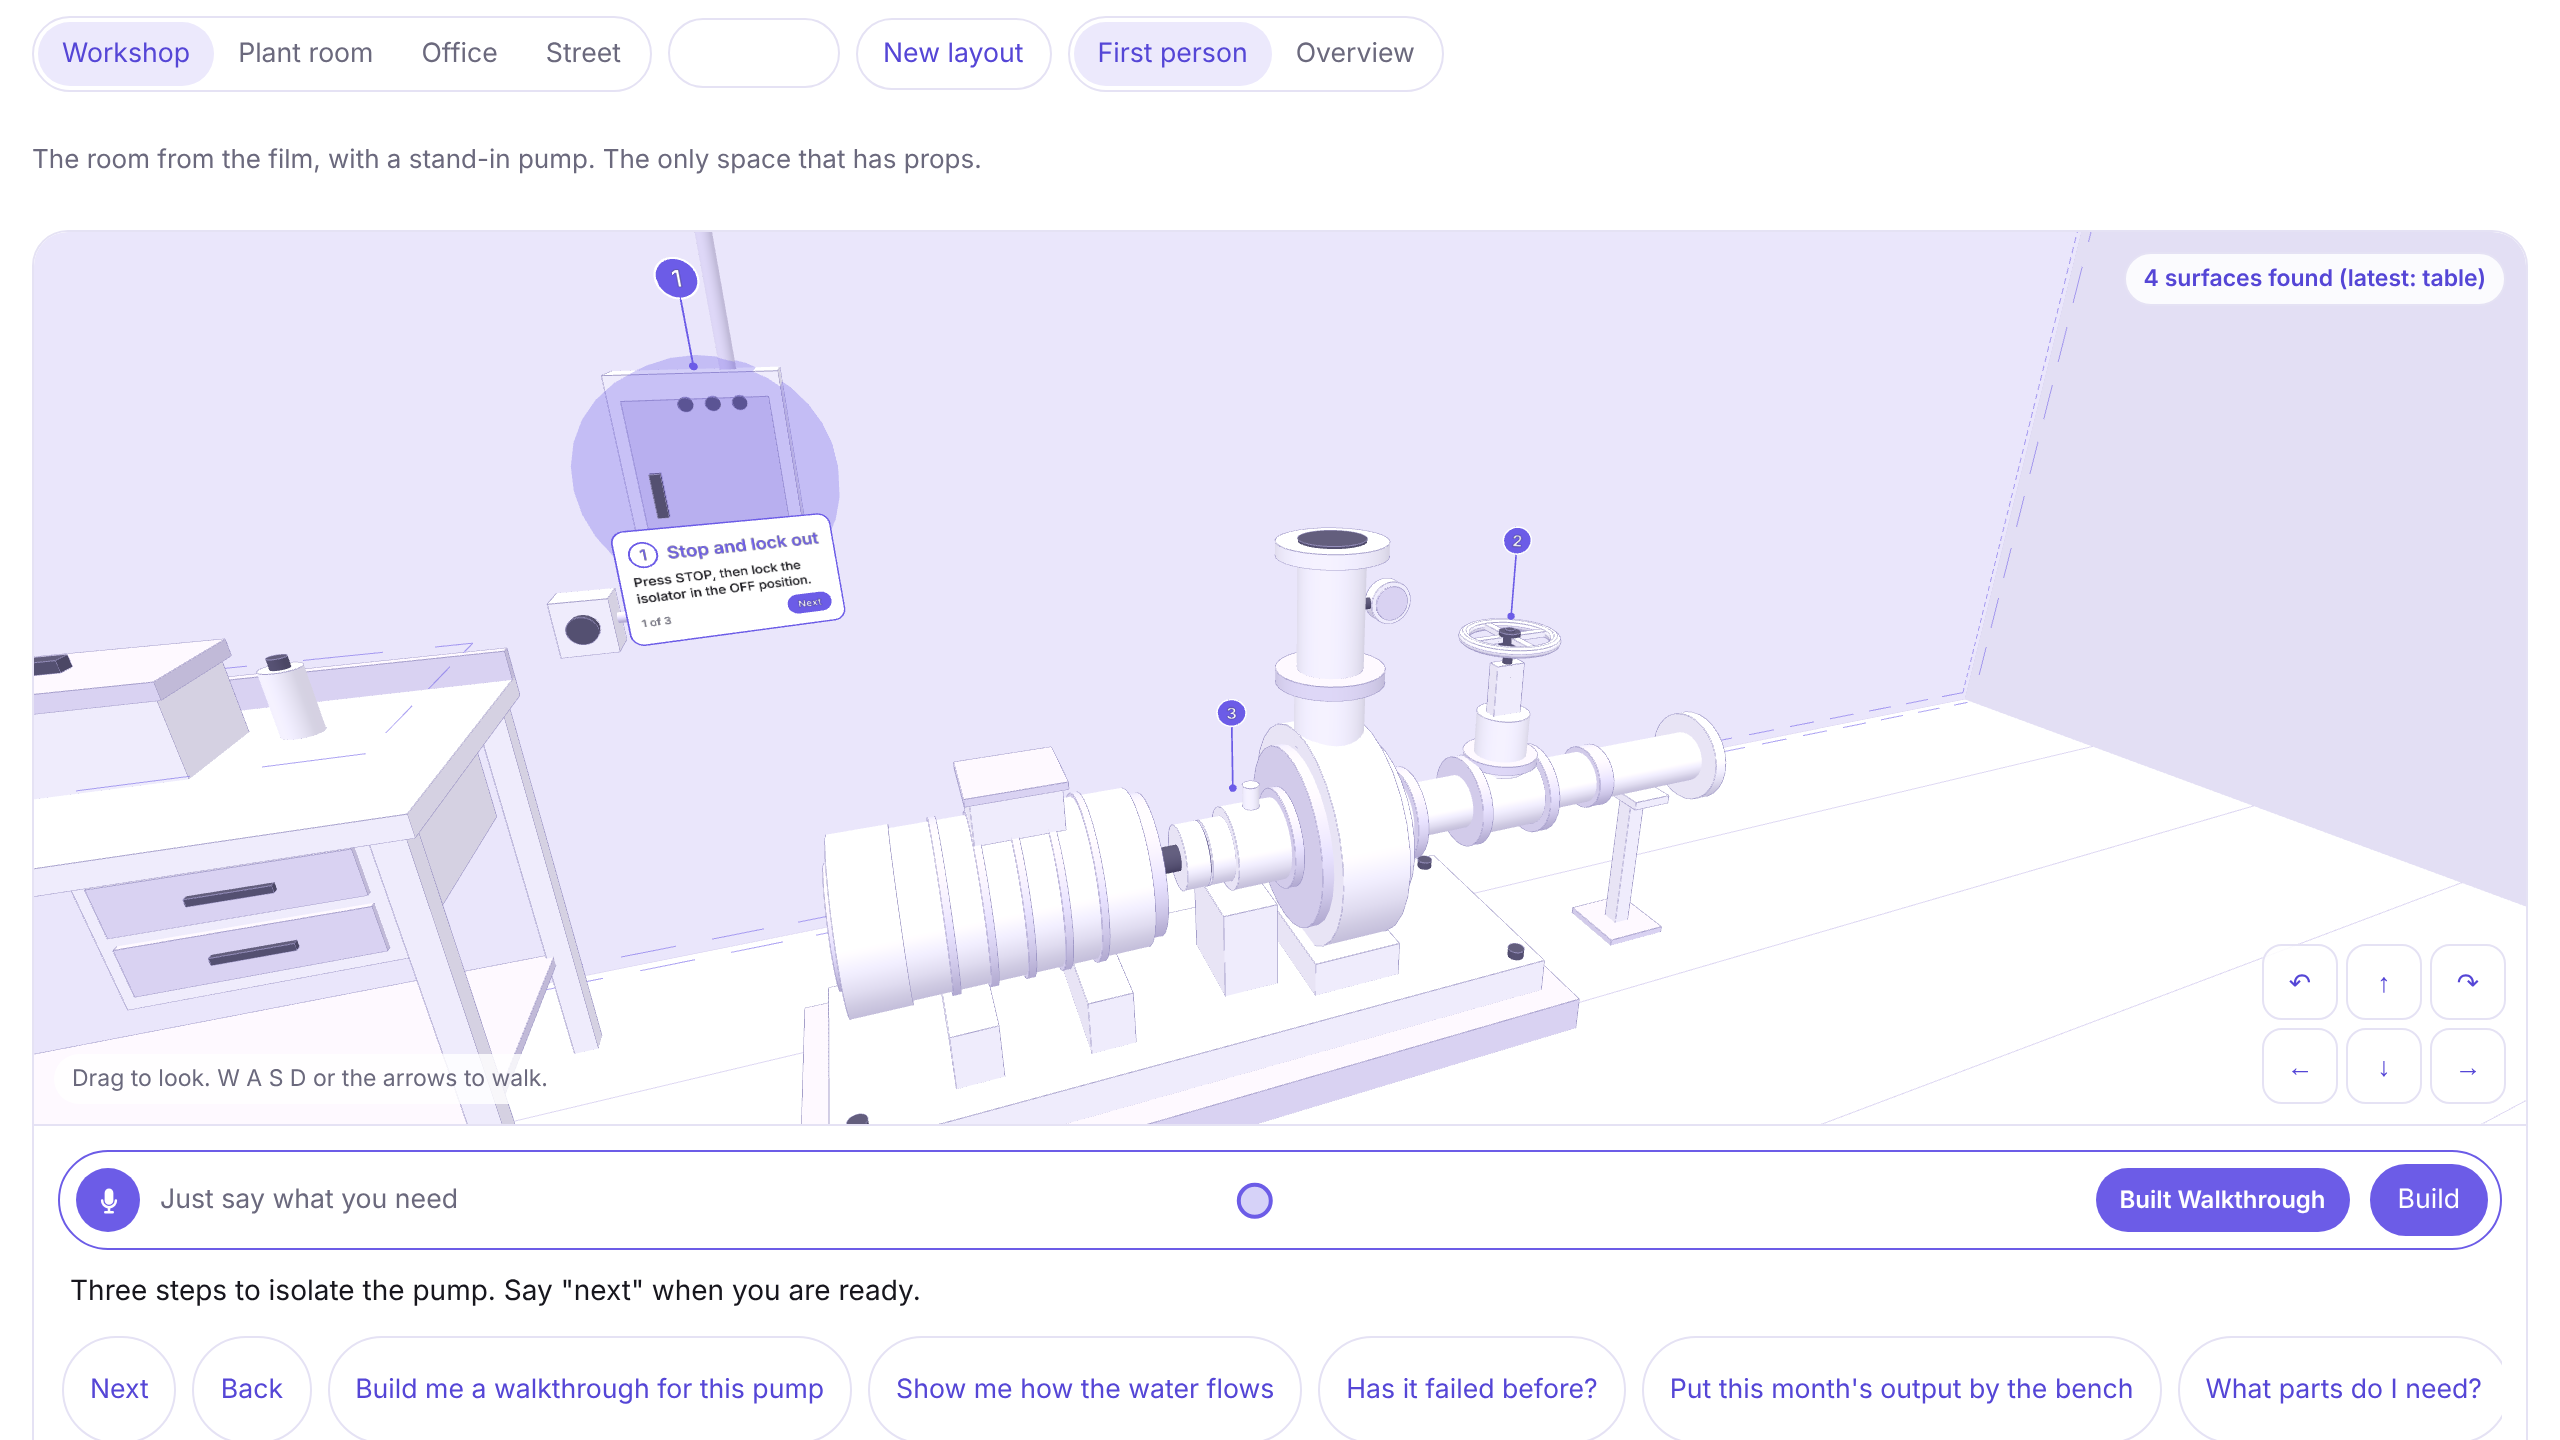
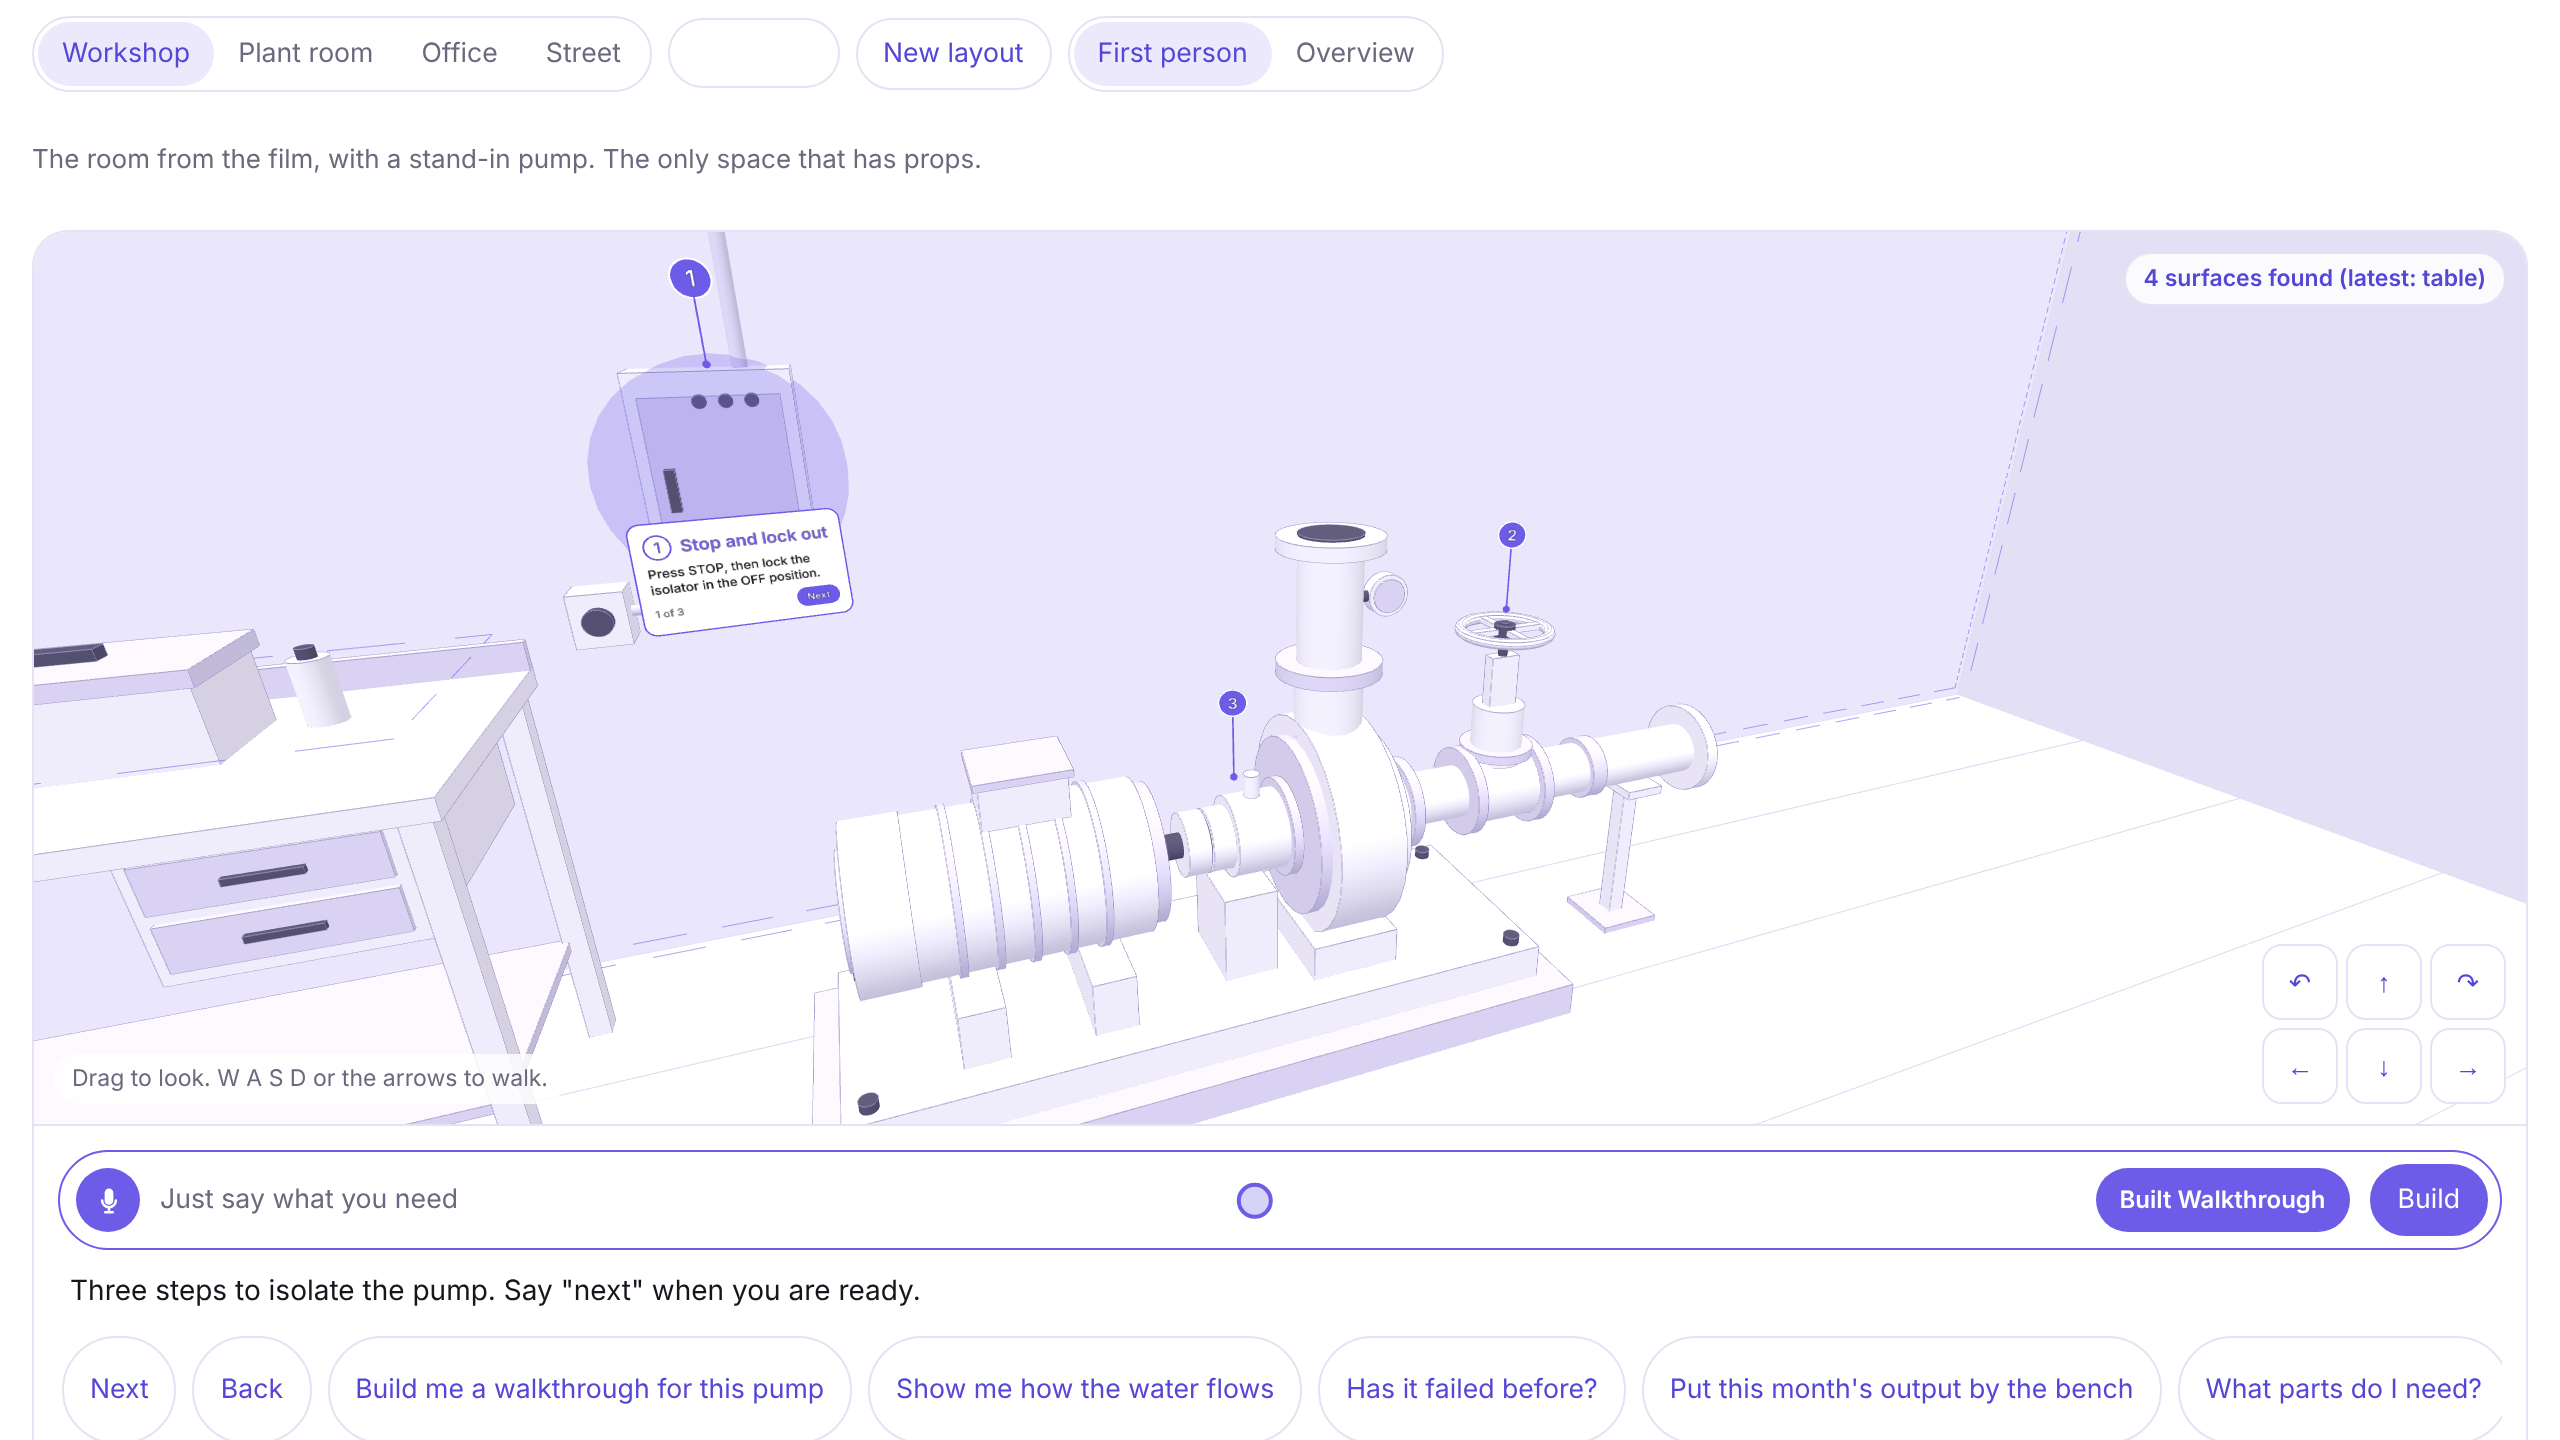
Lab stills, kit placement fix, guide polish
Kit pieces (pill, button, arcArrow) now pass only placement to their group, so
style options no longer leak into group properties. Adds the lab stills and the
lab's verification detail to the guide.

Claude-Session: https://claude.ai/code/session_01YJK3wXYWccKnyfQ7fLP1g4

diff --git a/docs/lab/data/spatail.js b/docs/lab/data/spatail.js
@@ -585,13 +585,23 @@
   // Nothing here is special: every piece is built from the scene primitives above, and programs are free to
   // build their own instead.
 
+  // Kit pieces are groups. Only placement goes to the group itself; style, size and colour belong to the
+  // pieces inside it.
+  function placementOf(options) {
+    var out = {};
+    ['position', 'rotation', 'scale', 'parent', 'billboard', 'visible'].forEach(function (k) {
+      if (options[k] !== undefined) out[k] = options[k];
+    });
+    return out;
+  }
+
   var kit = {
     // A rounded pill of text. style 'solid' (coloured, white text) or 'outline' (white, coloured text).
     pill: function (text, options) {
       options = options || {};
       var c = color(options.color), solid = options.style !== 'outline';
       var size = options.size || theme.text.label, padX = size * 0.75, height = size * 1.8;
-      var g = scene.group(options);
+      var g = scene.group(placementOf(options));
       var label = scene.text({ parent: g, text: text, size: size, weight: 'semibold', align: 'center', color: solid ? '#FFFFFF' : c, position: [0, 0, -theme.layer] });
       g.width = label.width + padX * 2;
       g.height = height;
@@ -632,7 +642,7 @@
       options = options || {};
       var c = color(options.color), primary = options.primary !== false;
       var size = options.size || theme.text.small, height = size * 2;
-      var g = scene.group(options);
+      var g = scene.group(placementOf(options));
       var label = scene.text({ parent: g, text: text, size: size, weight: 'semibold', align: 'center', color: primary ? '#FFFFFF' : c, position: [0, 0, -theme.layer] });
       g.width = label.width + size * 2;
       g.height = height;
@@ -680,7 +690,7 @@
     arcArrow: function (options) {
       options = options || {};
       var c = color(options.color), r = options.radius || 0.14, arc = options.arc || 250, clockwise = options.clockwise !== false;
-      var g = scene.group(options);
+      var g = scene.group(placementOf(options));
       var spinner = scene.group({ parent: g });
       scene.torus({ parent: spinner, radius: r, tube: 0.011, arc: arc, color: c });
       // The arc runs anticlockwise (seen from above) from +X. The head leads the motion.

diff --git a/docs/content.js b/docs/content.js
@@ -83,7 +83,7 @@ window.SPATAIL_STATUS = [
   ['Session link', 'Tested', 'Host and client exchange prompts, replies, presence and settings over real TCP sockets on loopback.'],
   ['Planner service', 'Tested', '14 tests with a stand-in for the Claude client: request shape (image, cached instructions, schema), refusal and error handling, the HTTP surface. Every example program is run against the real runtime library.'],
   ['Planner service calling Claude for real', 'Not run', 'No Claude credentials were available here. The quality of generated programs in real places is the main thing still to learn, and the reason the episode replay exists.'],
-  ['Browser lab', 'Tested', 'Headless browser: generated spaces, surface discovery while looking around, recorded and sensing-only programs, both themes, phone width.'],
+  ['Browser lab', 'Tested', 'Headless browser, 66 checks: surfaces start empty and grow as you look around, the same seed gives the same layout, all six film programs and five sensing-only programs run, clicks and spoken commands work, both themes, phone width. The planner path was checked against a stand-in service. Safari, Firefox and a real GPU were not tried.'],
   ['Shared Unity runtime: scene host, text, interaction, prompt bar, simulator', 'Compile-checked', 'Type-checks against Unity\'s reference assemblies with <code>dotnet build tools/UnityCompileCheck</code>, for both input backends. Never run in Unity.'],
   ['Shaders (surface, panel, text, flow)', 'Not compiled', 'Written by hand; there was no shader compiler to run them through.'],
   ['Quest adapter: live depth rays, surface tracking, passthrough camera frames, pointers, keyboard', 'Checked against SDK source', 'Every Meta and OpenXR API it calls was located in the SDK 209 package sources. Compiles against stubs copied from those sources, in editor and Android configurations.'],

diff --git a/docs/index.html b/docs/index.html
@@ -122,13 +122,14 @@ th, td { text-align: left; padding: 10px 14px; border-bottom: 1px solid var(--li
 th { font: 600 11px/1.2 var(--body); letter-spacing: .08em; text-transform: uppercase; color: var(--muted); background: var(--bg-soft); }
 tr:last-child td { border-bottom: 0; }
 td.q { font-weight: 600; }
-td:first-child code { white-space: nowrap; overflow-wrap: normal; }
+td:first-child code, td:nth-child(2) code { white-space: nowrap; overflow-wrap: normal; }
 td.num { font-variant-numeric: tabular-nums; white-space: nowrap; }
 .btn { border: 1px solid var(--line); background: var(--bg); color: var(--accent-ink); font: 600 12.5px/1 var(--body); padding: 8px 12px; border-radius: 999px; cursor: pointer; white-space: nowrap; }
 .btn:hover { background: var(--accent); color: var(--on-accent); border-color: var(--accent); }
 .btn.primary { background: var(--accent); color: var(--on-accent); border-color: var(--accent); }
 .btnrow { display: flex; flex-wrap: wrap; gap: 8px; }
 .tag { display: inline-block; font: 600 10.5px/1 var(--body); letter-spacing: .06em; text-transform: uppercase; padding: 4px 7px; border-radius: 999px; background: var(--accent-soft); color: var(--accent-ink); white-space: nowrap; }
+.card > .tag { justify-self: start; }
 .tag.warn { background: var(--warn-soft); color: var(--warn); }
 .tag.ok { background: var(--ok-soft); color: var(--ok); }
 .tag.plain { background: var(--bg-soft); color: var(--muted); }
